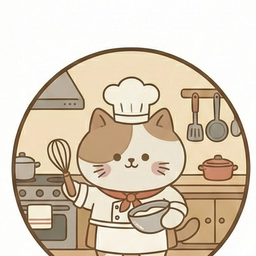
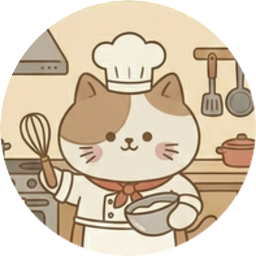
fix(assets): 頭像圖片圓形裁切去除自帶邊框 + 2/8 進度記錄 — 11 個檔案
- 8 張頭像 PNG 用 ImageMagick 裁切為純圓形（去除原始手繪邊框）
- 原始圖片備份於 assets/images/avatars/originals/
- 更新 memory-assets.md: 頭像處理流程記錄
- 更新 memory-components.md: 頭像系統尺寸規格
- 更新 memory-screens.md: 2/8 已完成 & 未完成項目

未完成：ProfileScreen/HomeScreen 渲染程式碼需簡化（移除絕對定位 hack）

diff --git a/docs/memory-assets.md b/docs/memory-assets.md
@@ -11,7 +11,7 @@
 > **跨端對應**
 > - 後端：（無直接對應，前端專屬）
 
-> 最後更新: 2026-01-11
+> 最後更新: 2026-02-08
 
 ## 圖片資源
 
@@ -24,6 +24,16 @@ assets/
 │   ├── splash.png         # 啟動畫面
 │   ├── splash-icon.png    # 啟動圖示
 │   ├── favicon.png        # Web Favicon
+│   ├── avatars/           # 頭像插畫（圓形裁切版）
+│   │   ├── avatar-chef.png
+│   │   ├── avatar-artist.png
+│   │   ├── avatar-musician.png
+│   │   ├── avatar-gardener.png
+│   │   ├── avatar-explorer.png
+│   │   ├── avatar-astronaut.png
+│   │   ├── avatar-diver.png
+│   │   ├── avatar-camper.png
+│   │   └── originals/     # 原始圖片備份（含自帶邊框）
 │   ├── partial-react-logo.png   # Expo 預設圖片 (可刪除)
 │   ├── react-logo.png           # Expo 預設圖片 (可刪除)
 │   ├── react-logo@2x.png        # Expo 預設圖片 (可刪除)
@@ -31,6 +41,28 @@ assets/
 ├── fonts/                  # 自定義字體
 └── animations/             # Lottie 動畫
 ```
+
+### 頭像圖片處理（2026-02-08）
+
+**問題**：原始頭像圖片 256x256 內含一圈手繪邊框，與 CSS borderRadius + borderWidth 的頭像框對不齊。
+三次 CSS 方案（transform scale、絕對定位）都失敗。
+
+**解法**：用 ImageMagick 裁切圖片，去掉自帶邊框：
+```bash
+magick original.png -alpha on \
+  \( -size 256x256 xc:none -fill white -draw "circle 130,150 130,52" \) \
+  -compose DstIn -composite \
+  -trim +repage \
+  -resize 256x256! \
+  \( -size 256x256 xc:none -fill white -draw "circle 128,128 128,0" \) \
+  -compose DstIn -composite \
+  output.png
+```
+- 原始圖片圓心偏移約 (130, 150)，邊框半徑約 103-112px
+- 步驟：提取內容圓 → trim → resize 填滿 256x256 → 置中圓形 mask
+- 處理後圖片為純圓形 + 透明角落，RN 端只需 `width: '100%', height: '100%'` + `borderRadius`
+
+**未完成**：ProfileScreen / HomeScreen 的 avatar 渲染程式碼需簡化（移除絕對定位 hack）
 
 ### Splash Screen 設定
 - **圖片**: `./assets/images/splash.png`

diff --git a/docs/memory-screens.md b/docs/memory-screens.md
@@ -262,6 +262,27 @@ GET /api/announcements
 
 ---
 
+---
+
+## 2026-02-08 變更紀錄
+
+### 已完成
+| 項目 | 影響檔案 | 說明 |
+|------|----------|------|
+| GachaScreen 429 錯誤處理 | `GachaScreen.tsx`, `translations.ts` | 429→頻率限制提示、401→引導登入、通用錯誤 |
+| GachaScreen i18n 遷移 | `GachaScreen.tsx`, `translations.ts` | ~19 處 `isZh` 改用 `t` 字典，新增 23 key×4 語系 |
+| 行程建立月曆選擇器 | `ItineraryScreenV2.tsx` | TextInput → `react-native-calendars` Calendar 元件 |
+| 圖鑑分類全景點滑動 | `ItineraryScreenV2.tsx` | 移除 `.slice(0,15)` 截斷 + "還有XX個景點" |
+| 登入語系選單收合 | `app/login.tsx` | overlay 從 header 移到 root container，全螢幕點擊收合 |
+| 頭像圖片圓形裁切 | `assets/images/avatars/*.png` | ImageMagick 去除自帶邊框，純圓形 + 透明角落 |
+
+### 未完成
+| 項目 | 影響檔案 | 說明 |
+|------|----------|------|
+| 頭像渲染程式碼簡化 | `ProfileScreen.tsx`, `HomeScreen.tsx` | 圖片已裁切，需將絕對定位 hack 改回 `width:'100%' height:'100%'` |
+
+---
+
 ## 待補充
 - [ ] 各頁面狀態管理
 - [ ] Deep Linking 設定

diff --git a/docs/memory-components.md b/docs/memory-components.md
@@ -147,6 +147,34 @@ Animated.timing(value, { toValue: 1, duration: 300, useNativeDriver: true });
 
 ---
 
+---
+
+## 頭像系統（2026-02-08）
+
+### 頭像預設選項
+- 8 隻貓咪系列插畫，定義在 `ProfileScreen.tsx` 的 `DEFAULT_AVATAR_PRESETS`
+- 圖片位於 `assets/images/avatars/avatar-{id}.png`，256x256 圓形（已用 ImageMagick 去除自帶邊框）
+- 背景色統一為 `#F5E6D3`
+
+### 頭像框尺寸
+| 位置 | 容器尺寸 | borderWidth | 內容區 |
+|------|----------|-------------|--------|
+| 主頭像（ProfileScreen） | 100×100 | 4px | 92×92 |
+| 選項（Modal） | 64×64 (含 padding 3 + border 3) | 3px | ~52×52 |
+| 首頁（HomeScreen） | 64×64 | 無 | 64×64 |
+
+### 渲染方式
+圖片已裁切為圓形，渲染只需：
+```tsx
+<View style={{ width: 100, height: 100, borderRadius: 50, overflow: 'hidden' }}>
+  <Image source={preset.image} style={{ width: '100%', height: '100%' }} resizeMode="cover" />
+</View>
+```
+
+**待完成**：ProfileScreen / HomeScreen 尚需將絕對定位 hack 改回簡單渲染
+
+---
+
 ## 待補充
 - [ ] 完整元件 Props 文檔
 - [ ] 無障礙 (A11y) 設定
